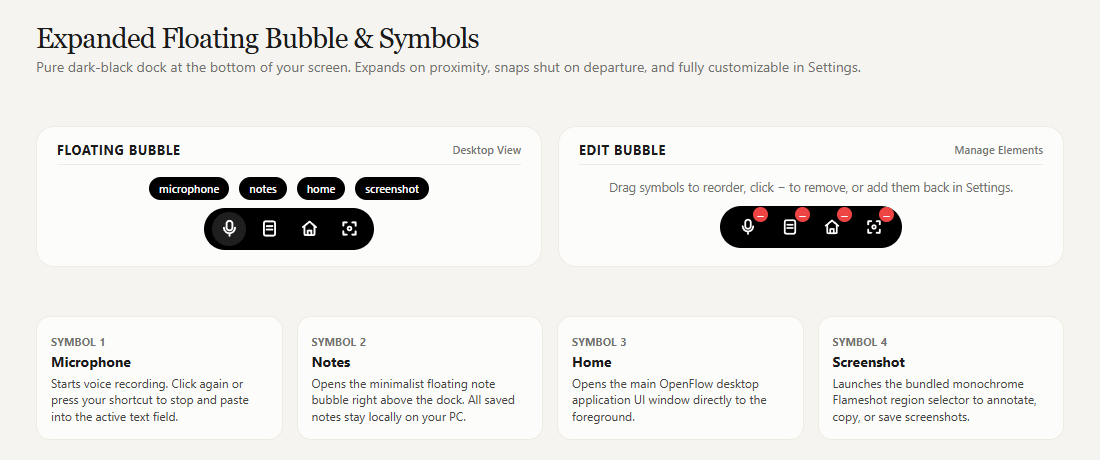
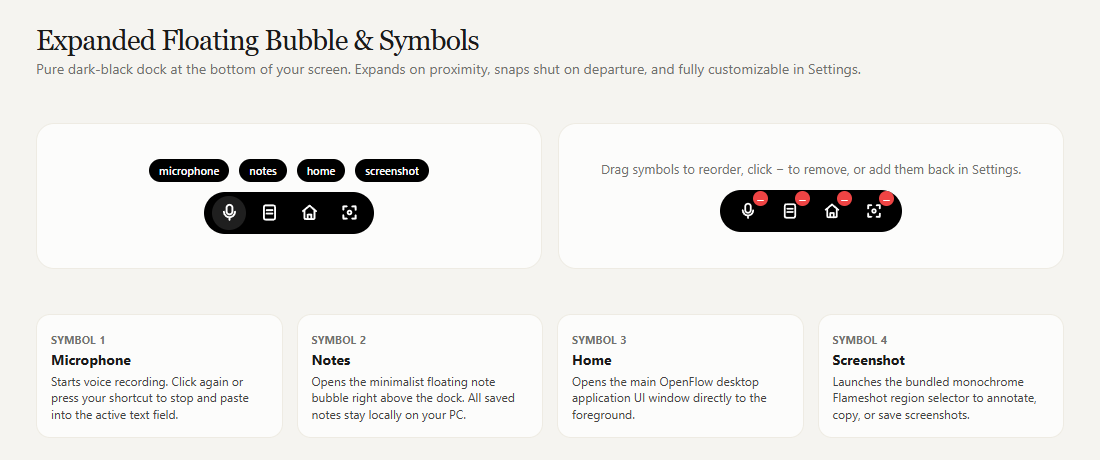
feat(release): OpenFlow v1.2.5 — minimalist pricing graphic, clean bubble showcase without header boxes, and clean 'Saved' button state without checkmark

diff --git a/docs/preview-pricing.html b/docs/preview-pricing.html
@@ -9,125 +9,106 @@
       --sand-600: #eeebe3;
       --vast-600: #71716e;
       --vast-950: #1a1a1a;
-      --green: #1f7a39;
-      --green-bg: #e7f6ec;
     }
     * { box-sizing: border-box; }
-    html, body { margin: 0; background: var(--sand-500); color: var(--vast-950); font-family: "Segoe UI", system-ui, sans-serif; -webkit-font-smoothing: antialiased; overflow: hidden; }
-    body { width: 1100px; height: 320px; padding: 28px 38px; display: flex; flex-direction: column; justify-content: space-between; }
-    .banner {
-      height: 100%;
-      background: var(--vast-950);
-      color: var(--sand-50);
-      border-radius: 22px;
-      padding: 28px 34px;
-      display: grid;
-      grid-template-columns: 1.15fr 1fr 1fr;
-      gap: 22px;
-      align-items: center;
-    }
-    .badge {
-      display: inline-block;
-      background: #2c2c2a;
-      color: #e6e4dd;
-      font-size: 11.5px;
-      font-weight: 700;
-      letter-spacing: 0.06em;
-      text-transform: uppercase;
-      padding: 5px 11px;
-      border-radius: 999px;
-      margin-bottom: 10px;
-    }
-    h1 {
-      margin: 0 0 8px;
-      font-family: Georgia, serif;
-      font-size: 31px;
-      font-weight: 500;
-      letter-spacing: -0.025em;
-      line-height: 1.15;
-    }
-    .sub {
+    html, body {
       margin: 0;
-      color: #b7b5ae;
-      font-size: 14px;
-      line-height: 1.5;
+      background: var(--sand-500);
+      color: var(--vast-950);
+      font-family: "Segoe UI", system-ui, -apple-system, sans-serif;
+      -webkit-font-smoothing: antialiased;
+      overflow: hidden;
     }
-    .card {
-      background: #111111;
-      border: 1px solid #2e2e2c;
-      border-radius: 18px;
-      padding: 20px 22px;
-      height: 100%;
+    body {
+      width: 1100px;
+      height: 320px;
+      padding: 24px 36px;
       display: flex;
       flex-direction: column;
       justify-content: space-between;
     }
-    .card.highlight {
-      background: var(--sand-50);
-      color: var(--vast-950);
-      border-color: var(--sand-600);
+    .header {
+      border-bottom: 1px solid var(--sand-600);
+      padding-bottom: 12px;
     }
-    .pill-tag {
-      display: inline-flex;
-      align-self: flex-start;
+    h1 {
+      margin: 0 0 4px;
+      font-family: Georgia, serif;
+      font-size: 26px;
+      font-weight: 500;
+      letter-spacing: -0.02em;
+      color: var(--vast-950);
+    }
+    .sub {
+      margin: 0;
+      color: var(--vast-600);
+      font-size: 13.5px;
+      line-height: 1.4;
+    }
+    .grid {
+      display: grid;
+      grid-template-columns: 1fr 1fr;
+      gap: 32px;
+      height: 100%;
+      padding-top: 14px;
+      align-items: center;
+    }
+    .col {
+      display: flex;
+      flex-direction: column;
+      justify-content: center;
+      gap: 6px;
+      padding-right: 16px;
+    }
+    .col:first-child {
+      border-right: 1px solid var(--sand-600);
+      padding-right: 32px;
+    }
+    .engine-label {
       font-size: 11px;
       font-weight: 700;
       text-transform: uppercase;
-      letter-spacing: 0.04em;
-      padding: 4px 10px;
-      border-radius: 999px;
-      background: #262624;
-      color: #d6d4cd;
+      letter-spacing: 0.05em;
+      color: var(--vast-600);
     }
-    .card.highlight .pill-tag {
-      background: var(--green-bg);
-      color: var(--green);
-    }
-    .price-big {
+    .metric {
       font-family: Georgia, serif;
-      font-size: 36px;
-      font-weight: 600;
-      letter-spacing: -0.03em;
-      margin: 8px 0 4px;
+      font-size: 38px;
+      font-weight: 500;
+      letter-spacing: -0.025em;
+      color: var(--vast-950);
+      margin: 2px 0 0;
     }
-    .price-sub {
-      font-size: 15px;
+    .metric-sub {
+      font-size: 14px;
       font-weight: 600;
-      margin-bottom: 6px;
+      color: var(--vast-950);
     }
-    .card p {
+    .desc {
       margin: 0;
-      font-size: 12.8px;
+      font-size: 13px;
       line-height: 1.45;
-      color: #9e9c95;
-    }
-    .card.highlight p {
-      color: #52514e;
+      color: var(--vast-600);
     }
   </style>
 </head>
 <body>
-  <div class="banner">
-    <div>
-      <span class="badge">Transparent STT Pricing</span>
-      <h1>Transcribe Hours of Voice for Pennies—or $0 Locally</h1>
-      <p class="sub">No monthly subscriptions. Run 100% free offline with bundled Parakeet v3, or pay only fractional cents per minute with your own OpenAI API key.</p>
+  <div class="header">
+    <h1>How much can you transcribe for $0.50?</h1>
+    <p class="sub">OpenFlow connects directly to your local hardware or personal API key with no middleman fees.</p>
+  </div>
+  <div class="grid">
+    <div class="col">
+      <span class="engine-label">Local Processing &mdash; Parakeet v3</span>
+      <div class="metric">$0.00 / &infin;</div>
+      <div class="metric-sub">Unlimited offline transcription</div>
+      <p class="desc">Runs locally in the background on your PC. No API key, zero costs, and no audio data leaves your device.</p>
     </div>
-    <div class="card highlight">
-      <span class="pill-tag">$0.50 USD Budget</span>
-      <div>
-        <div class="price-big">~111 Min</div>
-        <div class="price-sub">1 hr 51 min of Spoken Audio</div>
-      </div>
-      <p>At $0.0045/min (OpenAI gpt-transcribe), just <strong>$0.50</strong> transcribes ~16,600 spoken words—weeks of daily dictation.</p>
-    </div>
-    <div class="card">
-      <span class="pill-tag">Bundled Open-Source</span>
-      <div>
-        <div class="price-big">$0.00 / ∞</div>
-        <div class="price-sub">Parakeet v3 (Local Engine)</div>
-      </div>
-      <p>Installed automatically with OpenFlow. Runs in the background on your PC with zero API costs and unlimited hours.</p>
+    <div class="col">
+      <span class="engine-label">Cloud Processing &mdash; OpenAI API</span>
+      <div class="metric">~111 Minutes</div>
+      <div class="metric-sub">1 hour 51 minutes for $0.50 USD</div>
+      <p class="desc">Billed directly by OpenAI at $0.0045/min (~16,600 spoken words). Pay only for what you speak with zero monthly fees.</p>
     </div>
   </div>
 </body>

diff --git a/docs/preview-bubble.html b/docs/preview-bubble.html
@@ -13,25 +13,22 @@
     }
     * { box-sizing: border-box; }
     html, body { margin: 0; background: var(--sand-500); color: var(--vast-950); font-family: "Segoe UI", system-ui, sans-serif; -webkit-font-smoothing: antialiased; overflow: hidden; }
-    body { width: 1100px; height: 460px; padding: 22px 36px 20px; display: flex; flex-direction: column; justify-content: space-between; gap: 12px; }
+    body { width: 1100px; height: 460px; padding: 24px 36px 22px; display: flex; flex-direction: column; justify-content: space-between; gap: 14px; }
     h1 { margin: 0; font-family: Georgia, serif; font-size: 28px; font-weight: 500; letter-spacing: -0.025em; }
     .lead { margin: 3px 0 0; color: var(--vast-600); font-size: 14px; }
     
     .showcase-split { display: grid; grid-template-columns: 1fr 1fr; gap: 16px; }
-    .showcase-box { background: var(--sand-50); border: 1px solid var(--sand-600); border-radius: 18px; padding: 14px 20px 16px; display: flex; flex-direction: column; align-items: center; justify-content: center; gap: 10px; position: relative; min-height: 140px; }
-    .box-header { display: flex; align-items: center; justify-content: space-between; width: 100%; border-bottom: 1px solid var(--sand-600); padding-bottom: 6px; margin-bottom: 2px; }
-    .box-title { font-size: 13px; font-weight: 700; text-transform: uppercase; letter-spacing: 0.05em; color: var(--vast-950); }
-    .box-tag { font-size: 11px; font-weight: 600; color: var(--vast-600); }
+    .showcase-box { background: var(--sand-50); border: 1px solid var(--sand-600); border-radius: 18px; padding: 22px 20px; display: flex; flex-direction: column; align-items: center; justify-content: center; gap: 12px; position: relative; min-height: 146px; }
     
-    .bubble-wrap { display: flex; flex-direction: column; align-items: center; justify-content: center; gap: 8px; flex: 1; }
+    .bubble-wrap { display: flex; flex-direction: column; align-items: center; justify-content: center; gap: 10px; width: 100%; }
     .tooltip-row { display: flex; gap: 10px; }
     .tip { background: #000000; color: #ffffff; font-size: 11px; font-weight: 600; padding: 4px 10px; border-radius: 999px; }
     .pill { display: flex; align-items: center; justify-content: center; gap: 6px; height: 42px; padding: 4px 8px; background: #000000; color: #fff; border-radius: 999px; }
     .pill div { width: 34px; height: 34px; border-radius: 999px; display: grid; place-items: center; }
     .pill div.active { background: #1f1f1f; }
     
-    .edit-wrap { display: flex; flex-direction: column; align-items: center; justify-content: center; gap: 10px; flex: 1; width: 100%; }
-    .edit-desc { font-size: 12.5px; color: var(--vast-600); text-align: center; line-height: 1.35; margin: 0; }
+    .edit-wrap { display: flex; flex-direction: column; align-items: center; justify-content: center; gap: 12px; width: 100%; }
+    .edit-desc { font-size: 13px; color: var(--vast-600); text-align: center; line-height: 1.35; margin: 0; }
     .manage-pill { display: inline-flex; align-items: center; justify-content: center; gap: 10px; padding: 5px 12px; background: #000000; border-radius: 999px; }
     .manage-item { position: relative; display: inline-flex; align-items: center; justify-content: center; }
     .manage-item .icon-btn { width: 32px; height: 32px; border-radius: 50%; display: grid; place-items: center; color: #fff; background: transparent; }
@@ -53,10 +50,6 @@
   <div class="showcase-split">
     <!-- Left: Desktop Floating Bubble -->
     <div class="showcase-box">
-      <div class="box-header">
-        <span class="box-title">Floating Bubble</span>
-        <span class="box-tag">Desktop View</span>
-      </div>
       <div class="bubble-wrap">
         <div class="tooltip-row">
           <span class="tip">microphone</span>
@@ -75,10 +68,6 @@
 
     <!-- Right: Edit Bubble / Manage Elements -->
     <div class="showcase-box">
-      <div class="box-header">
-        <span class="box-title">Edit Bubble</span>
-        <span class="box-tag">Manage Elements</span>
-      </div>
       <div class="edit-wrap">
         <p class="edit-desc">Drag symbols to reorder, click − to remove, or add them back in Settings.</p>
         <div class="manage-pill">

diff --git a/renderer/app.js b/renderer/app.js
@@ -143,7 +143,7 @@ async function saveApiKey() {
   const saveKeyBtn = document.querySelector("#save-key");
   if (saveKeyBtn) {
     saveKeyBtn.disabled = true;
-    saveKeyBtn.textContent = "Saved ✓";
+    saveKeyBtn.textContent = "Saved";
     saveKeyBtn.classList.add("saved");
   }
   await window.openflow.dispatch("settings.save", { apiKey: value, onboardingDone: true });
@@ -526,7 +526,7 @@ document.addEventListener("DOMContentLoaded", () => {
         bubbleElements: state.draftBubbleElements || ["voice", "note", "tune", "shot"],
         floatingBubble: state.draftFloatingBubble || "active",
       });
-      bubbleSave.textContent = "Saved ✓";
+      bubbleSave.textContent = "Saved";
       bubbleSave.classList.add("saved");
       await new Promise((r) => setTimeout(r, 600));
       state.draftBubbleElements = null;
@@ -614,7 +614,7 @@ document.addEventListener("DOMContentLoaded", () => {
     const nextTitle = (title && title.value.trim()) ? title.value.trim() : "Note";
     const nextContent = body ? body.value : state.editor.content;
     button.disabled = true;
-    button.textContent = "Saved ✓";
+    button.textContent = "Saved";
     button.classList.add("saved");
     const saved = await window.openflow.dispatch("pads.save", {
       id: state.editor.id || undefined,

diff --git a/renderer/note.html b/renderer/note.html
@@ -338,7 +338,7 @@
       button.disabled = true;
       await finishVoice();
       const nextContent = bodyInput ? bodyInput.value : "";
-      button.textContent = "Saved ✓";
+      button.textContent = "Saved";
       button.classList.add("saved");
       const saved = await window.openflow.dispatch("pads.save", {
         id: currentNote.id || undefined,

diff --git a/README.md b/README.md
@@ -77,7 +77,7 @@ OpenFlow has **zero subscriptions or middleman fees**:
 
 Download the latest Windows installer from the [**Releases**](https://github.com/LuiInventions/OpenFlow/releases) page:
 
-- **`OpenFlow-Setup-1.2.4.exe`** — Lightweight Windows NSIS Web/Stub Installer (~1 MB download) with customizable install directory, Start Menu entry, and Desktop shortcut. Automatically fetches the application package from GitHub Releases during setup, checks whether **Parakeet v3** is already installed (skipping download if present, or showing a live MB progress bar), and then opens the UI so you can choose **Local (Parakeet v3)** or **OpenAI API**.
+- **`OpenFlow-Setup-1.2.5.exe`** — Lightweight Windows NSIS Web/Stub Installer (~1 MB download) with customizable install directory, Start Menu entry, and Desktop shortcut. Automatically fetches the application package from GitHub Releases during setup, checks whether **Parakeet v3** is already installed (skipping download if present, or showing a live MB progress bar), and then opens the UI so you can choose **Local (Parakeet v3)** or **OpenAI API**.
 
 Requirements: Windows 10 or Windows 11 (64-bit). An OpenAI API key is optional.
 
@@ -91,7 +91,7 @@ npm test
 npm run dist
 ```
 
-This builds the Windows NSIS Web Stub installer (`release/OpenFlow-Setup-1.2.4.exe`).
+This builds the Windows NSIS Web Stub installer (`release/OpenFlow-Setup-1.2.5.exe`).
 
 ---
 
